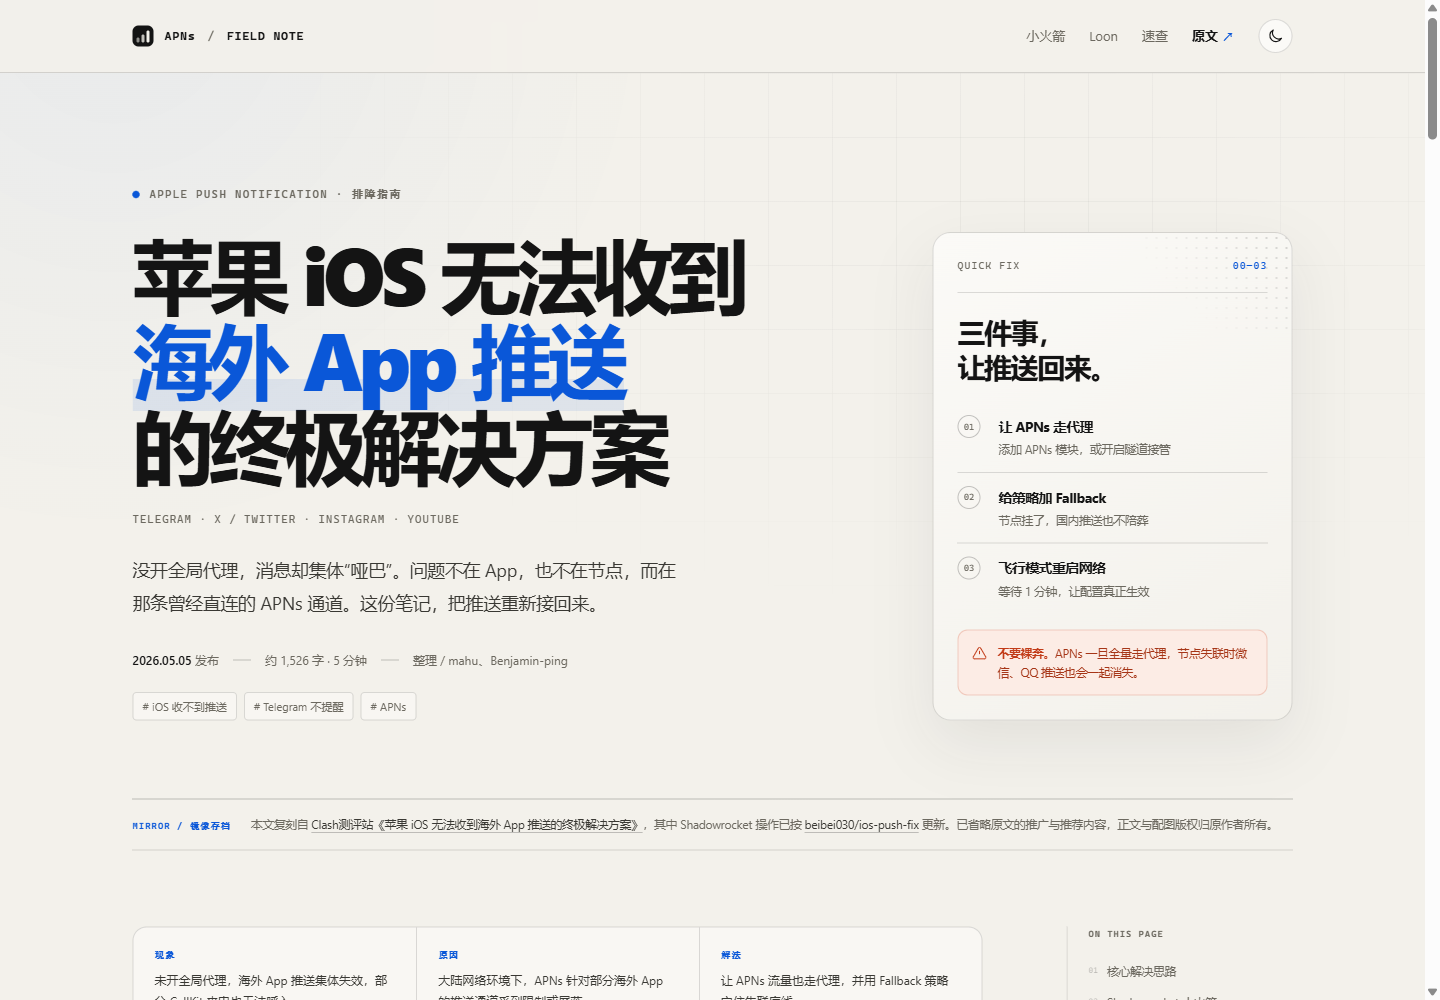
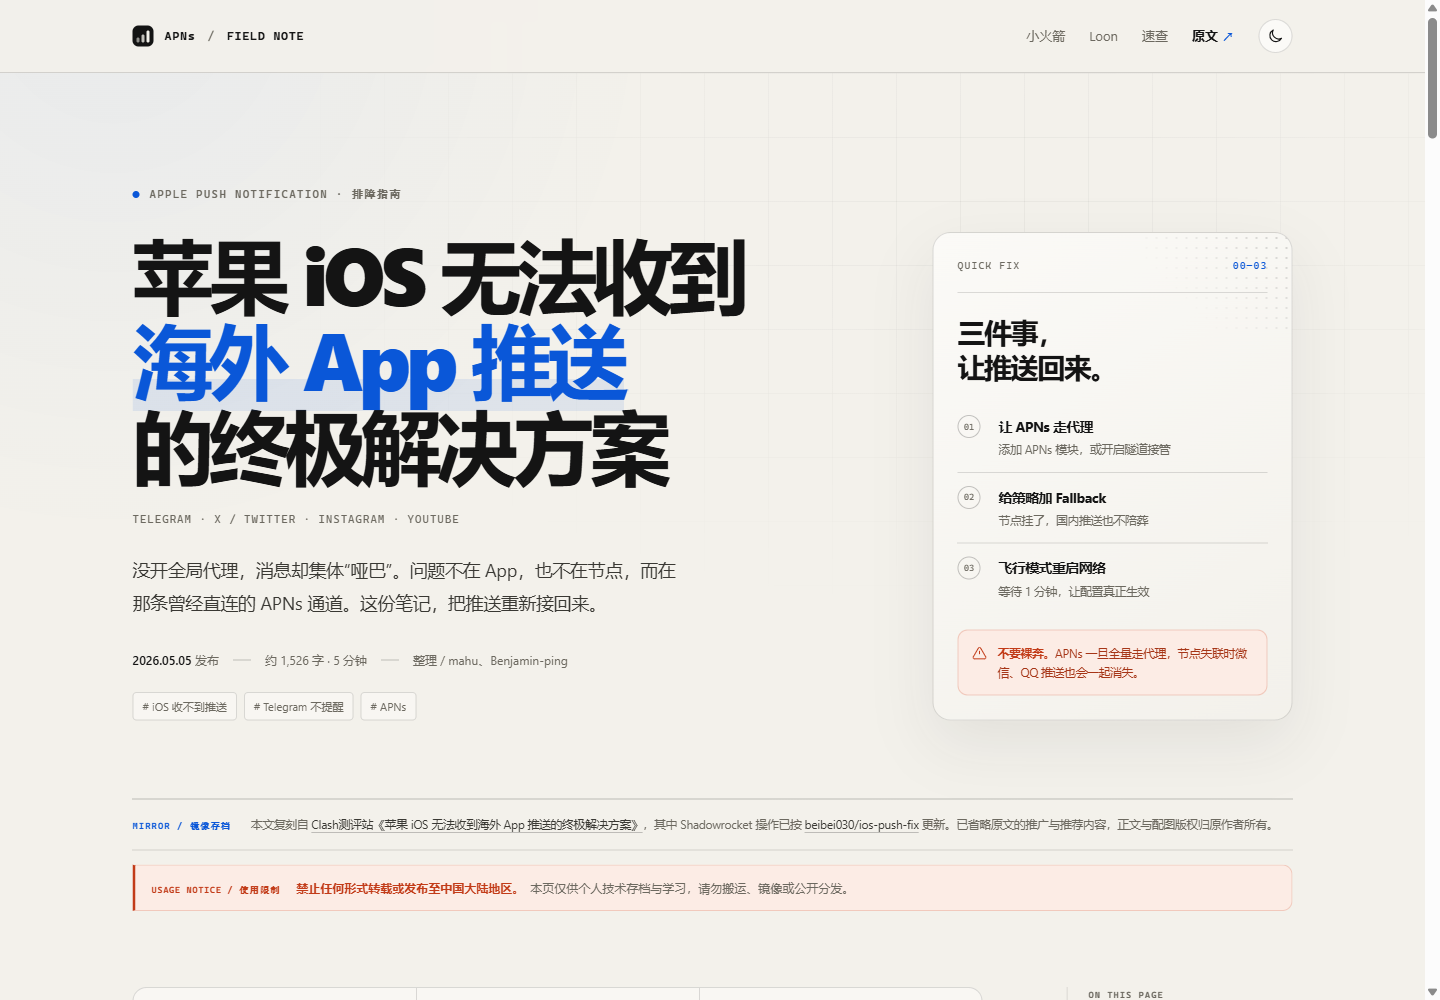
Add reprint and regional publishing restriction notice

diff --git a/assets/styles.css b/assets/styles.css
@@ -499,6 +499,37 @@ html[data-theme="dark"] .theme-toggle .icon-moon { display: none; }
 }
 .mirror-note a:hover { color: var(--accent); }
 
+.reprint-notice {
+  display: flex;
+  align-items: baseline;
+  gap: 16px;
+  margin-top: 14px;
+  padding: 12px 16px;
+  border: 1px solid color-mix(in srgb, var(--warm) 20%, transparent);
+  border-left: 3px solid var(--warm);
+  border-radius: 0 10px 10px 0;
+  background: var(--warm-soft);
+}
+.reprint-label {
+  flex: 0 0 auto;
+  color: var(--warm);
+  font-family: var(--mono);
+  font-size: 8.5px;
+  font-weight: 700;
+  letter-spacing: 0.1em;
+}
+.reprint-notice p {
+  margin: 0;
+  color: color-mix(in srgb, var(--warm) 82%, var(--ink));
+  font-size: 12px;
+  line-height: 1.7;
+}
+.reprint-notice strong { color: var(--warm); font-weight: 700; }
+.reprint-notice p span {
+  margin-left: 6px;
+  color: var(--muted);
+}
+
 /* Layout ------------------------------------------------------- */
 
 .content-grid {
@@ -1225,6 +1256,17 @@ td code {
   font-size: 11.5px;
   line-height: 1.85;
 }
+.footer-grid > div > .footer-restriction {
+  max-width: 54ch;
+  margin: 14px 0 10px;
+  padding: 10px 12px;
+  color: var(--warm);
+  border-left: 2px solid var(--warm);
+  background: var(--warm-soft);
+  font-size: 11.5px;
+  line-height: 1.7;
+}
+.footer-restriction strong { color: var(--warm); }
 .source-card {
   padding: 20px;
   border: 1px solid var(--line);
@@ -1334,6 +1376,9 @@ td code {
   .hero-meta span { flex: 0 0 auto; }
   .mirror-note { display: block; }
   .mirror-label { display: block; margin-bottom: 5px; }
+  .reprint-notice { display: block; }
+  .reprint-label { display: block; margin-bottom: 5px; }
+  .reprint-notice p span { display: block; margin: 3px 0 0; }
   .brief { grid-template-columns: 1fr; }
   .brief > div + div { border-top: 1px solid var(--line); border-left: 0; }
   .chapter-head { gap: 12px; }

diff --git a/index.html b/index.html
@@ -111,6 +111,10 @@
         <span class="mirror-label">MIRROR / 镜像存档</span>
         <p>本文复刻自 <a href="https://mahu.blog/article/applepushquestion/" target="_blank" rel="noopener noreferrer">Clash测评站《苹果 iOS 无法收到海外 App 推送的终极解决方案》</a>，其中 Shadowrocket 操作已按 <a href="https://github.com/beibei030/ios-push-fix" target="_blank" rel="noopener noreferrer">beibei030/ios-push-fix</a> 更新。已省略原文的推广与推荐内容，正文与配图版权归原作者所有。</p>
       </div>
+      <div class="reprint-notice" role="note" aria-label="使用限制">
+        <span class="reprint-label">USAGE NOTICE / 使用限制</span>
+        <p><strong>禁止任何形式转载或发布至中国大陆地区。</strong><span>本页仅供个人技术存档与学习，请勿搬运、镜像或公开分发。</span></p>
+      </div>
     </div>
 
     <div class="shell content-grid">
@@ -435,6 +439,7 @@
           <p class="mono-label">SOURCE &amp; CREDIT</p>
           <h2>原文与版权</h2>
           <p>本页是对原文的静态镜像，仅作技术资料存档，未包含原文的推广与推荐链接。正文、配图及观点版权归原作者与 Clash测评站所有。</p>
+          <p class="footer-restriction"><strong>禁止任何形式转载或发布至中国大陆地区。</strong></p>
           <p>如有侵权，请通过仓库 Issue 联系删除。</p>
         </div>
         <div class="source-card">

diff --git a/README.md b/README.md
@@ -8,6 +8,9 @@
 
 文章梳理了 iOS 海外 App 推送失效的原因，并给出 Shadowrocket、Loon 与精简规则三套 APNs 接管方案。其中 Shadowrocket 部分已按 [beibei030/ios-push-fix](https://github.com/beibei030/ios-push-fix) 更新为模块 / 完整配置两种方式。本项目将内容整理为可离线阅读的单页站点，补上了目录、代码复制、阅读进度与深色模式。
 
+> [!IMPORTANT]
+> **禁止任何形式转载或发布至中国大陆地区。** 本仓库仅供个人技术存档与学习，请勿搬运、镜像或公开分发。
+
 ## 预览
 
 ![页面预览](./assets/preview.png)
@@ -69,5 +72,7 @@ Apple-APNs-Proxy/
 - Shadowrocket 操作参考：[beibei030/ios-push-fix](https://github.com/beibei030/ios-push-fix)
 
 **正文、配图及观点版权归原作者与 Clash测评站所有。** Shadowrocket 模块与配置由 `ios-push-fix` 仓库维护，相关规则版权归其作者所有。本仓库仅作技术资料存档，未包含原文的推广与推荐链接。如有侵权，请通过 Issue 联系删除。
+
+**使用限制：禁止任何形式转载或发布至中国大陆地区。**
 
 页面代码（HTML / CSS / JavaScript）可自由参考用于学习，但不得用于移除或模糊原文署名后二次发布。
